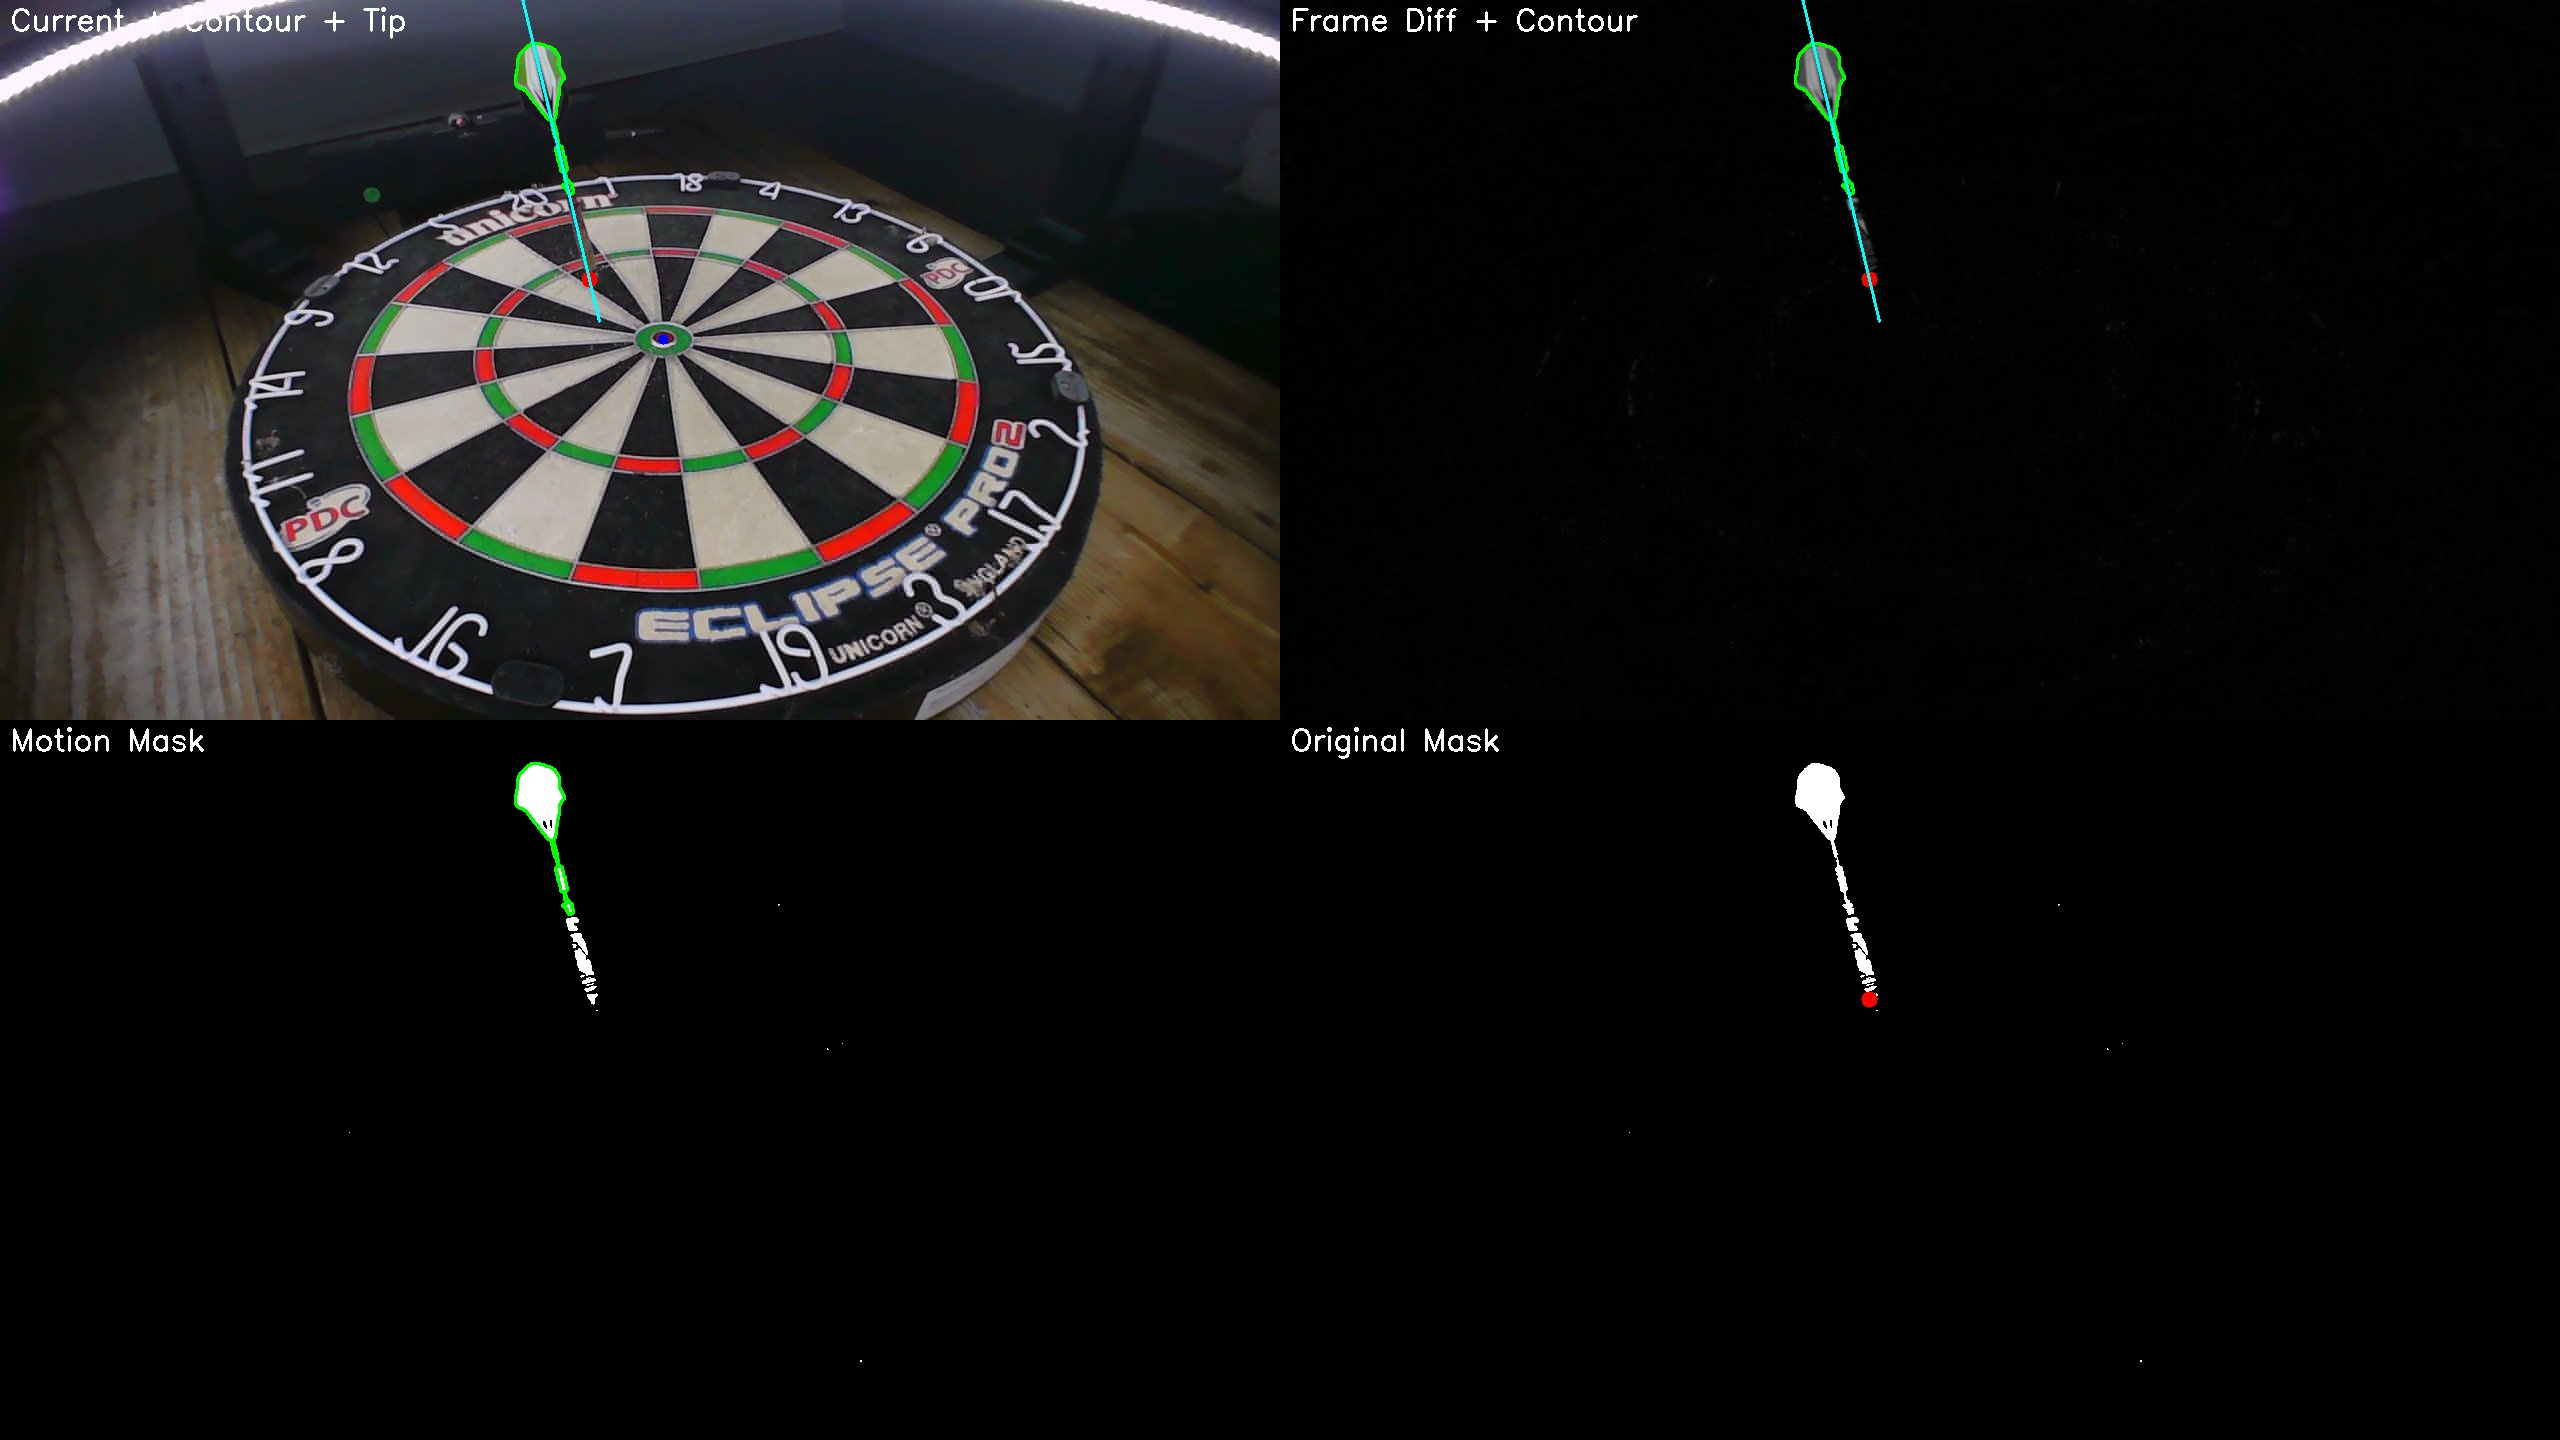
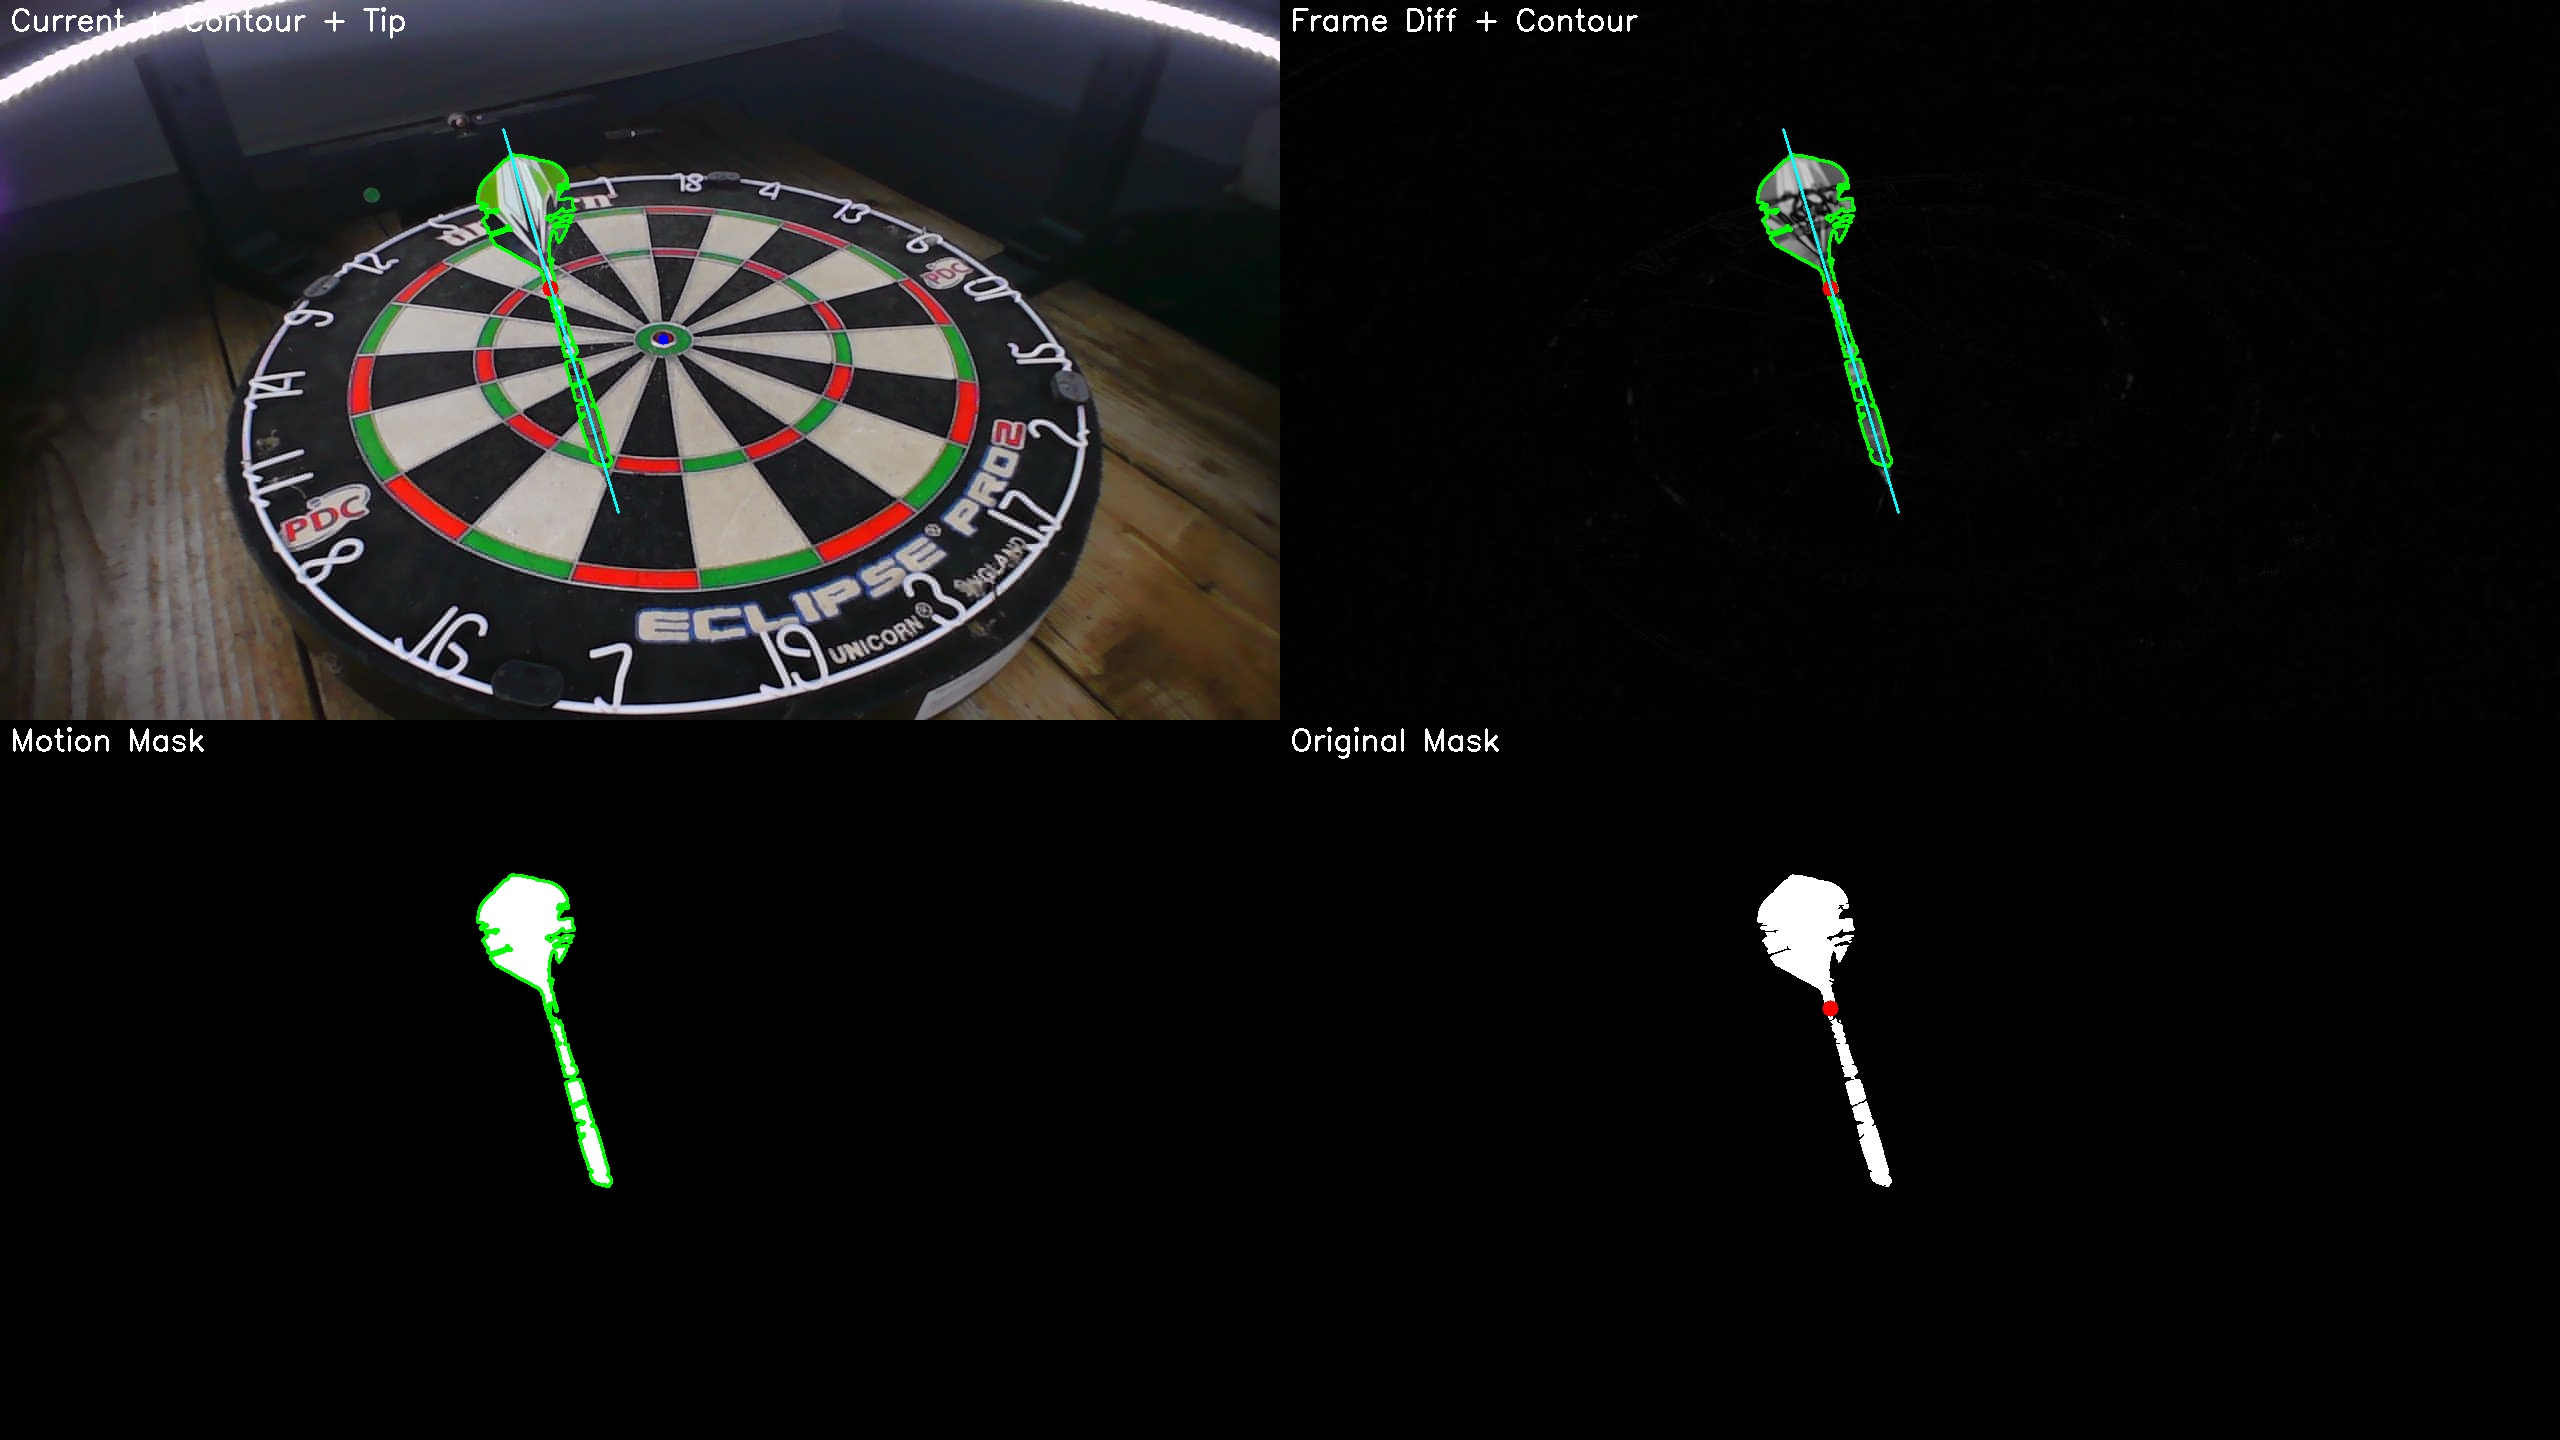
Multi-threshold shaft detection: centerline corridor + low threshold to capture thin dart shaft

diff --git a/app/core/skeleton_detection.py b/app/core/skeleton_detection.py
@@ -653,6 +653,90 @@ def get_adaptive_motion_mask(current_frame, previous_frame, camera_id=None,
     return gray_diff, motion_mask
 
 
+
+def extend_mask_along_centerline(gray_diff, dart_mask, line_params, board_center, low_threshold=8, corridor_width=15):
+    """
+    Extend the dart mask along the fitted centerline using a lower threshold.
+    
+    The flights/barrel are detected at the normal threshold, but the thin shaft
+    is too faint. This function:
+    1. Creates a narrow corridor along the centerline toward the board center
+    2. Applies a much lower threshold within that corridor
+    3. Merges detected shaft pixels into the dart mask
+    
+    Args:
+        gray_diff: Grayscale absolute difference image
+        dart_mask: Current binary mask (flights + barrel detected)
+        line_params: (vx, vy, x0, y0) from cv2.fitLine
+        board_center: (cx, cy) center of dartboard
+        low_threshold: Lower threshold for shaft detection (default 8)
+        corridor_width: Half-width of search corridor in pixels (default 15)
+    
+    Returns:
+        Extended dart_mask with shaft pixels included
+    """
+    if line_params is None or board_center is None:
+        return dart_mask
+    
+    vx, vy, x0, y0 = line_params
+    cx, cy = board_center
+    h, w = dart_mask.shape[:2]
+    
+    # Normalize direction
+    length = np.sqrt(vx*vx + vy*vy)
+    if length < 0.001:
+        return dart_mask
+    vx, vy = vx/length, vy/length
+    
+    # Direction toward board center from line point
+    to_center = np.array([cx - x0, cy - y0])
+    dot = to_center[0] * vx + to_center[1] * vy
+    if dot < 0:
+        vx, vy = -vx, -vy
+    
+    # Perpendicular direction for corridor width
+    px, py = -vy, vx
+    
+    # Find the extent of current mask along the centerline
+    # Walk from (x0,y0) toward center to find where mask currently ends
+    mask_end_t = 0
+    for t in range(0, 500):
+        nx = int(x0 + vx * t)
+        ny = int(y0 + vy * t)
+        if nx < 0 or nx >= w or ny < 0 or ny >= h:
+            break
+        if dart_mask[ny, nx] > 0:
+            mask_end_t = t
+    
+    # Now create corridor mask from mask_end onwards (where shaft should be)
+    # Also include some overlap with existing mask for continuity
+    corridor_mask = np.zeros_like(dart_mask)
+    start_t = max(0, mask_end_t - 20)  # Start a bit before mask ends
+    
+    for t in range(start_t, start_t + 300):
+        cx_line = x0 + vx * t
+        cy_line = y0 + vy * t
+        
+        # Draw perpendicular line segment at this point
+        for offset in range(-corridor_width, corridor_width + 1):
+            nx = int(cx_line + px * offset)
+            ny = int(cy_line + py * offset)
+            if 0 <= nx < w and 0 <= ny < h:
+                corridor_mask[ny, nx] = 255
+    
+    # Apply low threshold within corridor
+    _, low_thresh_mask = cv2.threshold(gray_diff, low_threshold, 255, cv2.THRESH_BINARY)
+    shaft_pixels = cv2.bitwise_and(low_thresh_mask, corridor_mask)
+    
+    # Light morphology to connect shaft fragments
+    close_kernel = cv2.getStructuringElement(cv2.MORPH_ELLIPSE, (3, 7))
+    shaft_pixels = cv2.morphologyEx(shaft_pixels, cv2.MORPH_CLOSE, close_kernel)
+    
+    # Merge shaft into dart mask
+    extended_mask = cv2.bitwise_or(dart_mask, shaft_pixels)
+    
+    return extended_mask
+
 def detect_dart_skeleton(
     current_frame: np.ndarray,
     previous_frame: np.ndarray,
@@ -732,6 +816,24 @@ def detect_dart_skeleton(
     # Create clean mask from dart contour
     dart_mask = np.zeros_like(motion_mask)
     cv2.drawContours(dart_mask, [dart_contour], -1, 255, -1)
+    
+    # Extend dart mask along centerline to capture thin shaft
+    # Step 1: Quick line fit on the contour to get direction
+    contour_mask_for_line = np.zeros_like(motion_mask)
+    cv2.drawContours(contour_mask_for_line, [dart_contour], -1, 255, -1)
+    quick_skel_pts = np.column_stack(np.where(contour_mask_for_line > 0))
+    if len(quick_skel_pts) > 10:
+        # Fit line to contour points (y,x format from np.where, need x,y)
+        pts_xy = quick_skel_pts[:, ::-1].astype(np.float32)
+        quick_line = cv2.fitLine(pts_xy, cv2.DIST_L2, 0, 0.01, 0.01)
+        quick_line = (float(quick_line[0]), float(quick_line[1]), float(quick_line[2]), float(quick_line[3]))
+        
+        # Step 2: Extend mask along centerline with low threshold
+        dart_mask = extend_mask_along_centerline(gray_diff, dart_mask, quick_line, center, 
+                                                  low_threshold=8, corridor_width=12)
+    
+    # Also update original_mask to include the expanded region for tip projection
+    original_mask = cv2.bitwise_or(original_mask, dart_mask)
     
     # 5. Skeletonize
     if HAS_SKIMAGE:

diff --git a/app/api/routes.py b/app/api/routes.py
@@ -2769,24 +2769,31 @@ def init_homographies():
     if not HAS_POLYGON:
         return
         
-    # Load segment_20_index from YOLO calibration data
+    # Auto-detect segment_20_index from polygon geometry
+    # The boundary between seg20 and seg1 is at -81 degrees from bull (just clockwise of top)
+    # Find which polygon point is closest to that angle for each camera
     seg20_map = {}
     try:
-        import glob
-        # Find any metadata.json with calibration data
-        meta_files = sorted(glob.glob(r'C:\Users\clawd\DartBenchmark\default\*\*\*\metadata.json'))
-        if meta_files:
-            import json as json_mod
-            with open(meta_files[-1]) as mf:
-                meta = json_mod.load(mf)
-            for cid in ['cam0', 'cam1', 'cam2']:
-                cal = meta.get('calibrations', {}).get(cid, {})
-                idx = cal.get('segment_20_index')
-                if idx is not None:
-                    seg20_map[cid] = idx
-        print(f"[STARTUP] segment_20_index map: {seg20_map}")
+        import math as _math
+        for cid in ['cam0', 'cam1', 'cam2']:
+            poly_cal = get_polygon_calibration(cid)
+            if poly_cal and poly_cal.double_outers and poly_cal.bull:
+                bull = poly_cal.bull
+                best_idx = 0
+                best_diff = 999
+                for i, pt in enumerate(poly_cal.double_outers):
+                    dx = pt[0] - bull[0]
+                    dy = pt[1] - bull[1]
+                    angle = _math.degrees(_math.atan2(dy, dx))
+                    # Boundary 0 in standard coords is at -81 degrees
+                    diff = abs(((angle - (-81) + 180) % 360) - 180)
+                    if diff < best_diff:
+                        best_diff = diff
+                        best_idx = i
+                seg20_map[cid] = best_idx
+        print(f"[STARTUP] segment_20_index map (auto-detected): {seg20_map}")
     except Exception as e:
-        print(f"[STARTUP] Could not load segment_20_index: {e}")
+        print(f"[STARTUP] Could not auto-detect segment_20_index: {e}")
     
     for cam_id in ["cam0", "cam1", "cam2"]:
         poly_cal = get_polygon_calibration(cam_id)
@@ -2832,7 +2839,7 @@ def compute_homography_for_camera(camera_id: str, polygon_calibration, seg20_idx
         # standard_pts[0] = segment 20 position in mm
         # Rotate so point[seg20_idx] maps to standard_pts[0]
         
-        standard_pts = get_standard_board_points()
+        standard_pts = get_standard_board_boundary_points()
         
         if seg20_idx is not None:
             rotated_dst = standard_pts[-seg20_idx:] + standard_pts[:-seg20_idx] if seg20_idx > 0 else standard_pts[:]
@@ -2846,7 +2853,7 @@ def compute_homography_for_camera(camera_id: str, polygon_calibration, seg20_idx
             dbg.write(f'[HOMOGRAPHY] {camera_id}: seg20_idx={seg20_idx}\n')
         logger.info(f"[HOMOGRAPHY] {camera_id}: seg20_idx={seg20_idx}")
         with open(r'C:\Users\clawd\skel_debug.txt', 'a') as dbg:
-            dbg.write(f'[HOMOGRAPHY] {camera_id}: offset={best_offset}, type={best_point_type}, seg20_idx={seg20_idx}, err={best_error:.1f}mm\n')
+            dbg.write(f'[HOMOGRAPHY] {camera_id}: seg20_idx={seg20_idx}, src_pts={len(src_points)}, dst_pts={len(dst_points)}\n')
         
         # Compute homography: maps pixels -> mm
         H, mask = cv2.findHomography(src_points, dst_points, cv2.RANSAC, 5.0)
